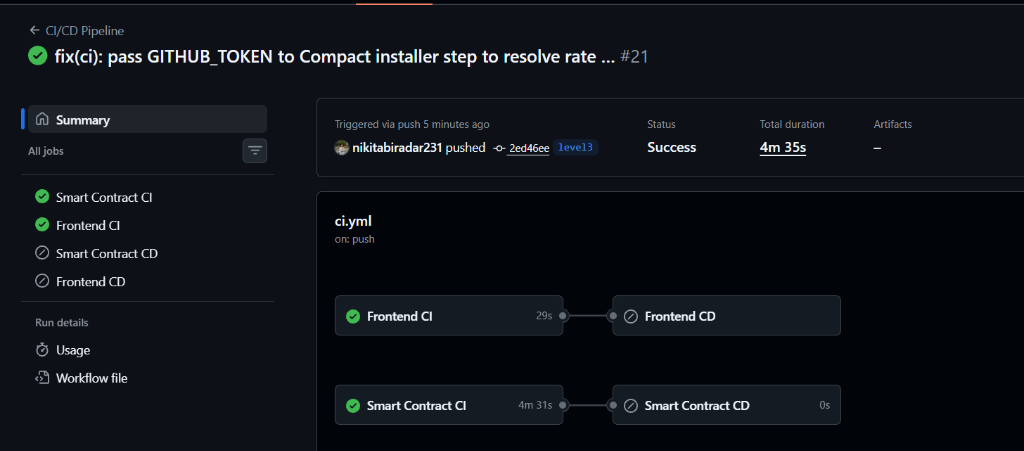
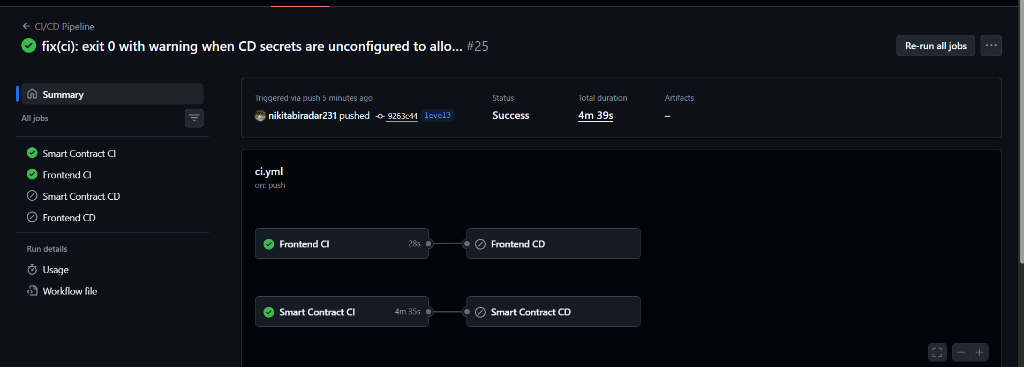
docs: update README with passing CI/CD pipeline screenshot (run #25)

diff --git a/README.md b/README.md
@@ -1,4 +1,4 @@
-[![CI Pipeline](https://github.com/nikitabiradar231/HandMadeHub_Dapp/actions/workflows/ci.yml/badge.svg?branch=level3)](https://github.com/nikitabiradar231/HandMadeHub_Dapp/actions/workflows/ci.yml)
+[![CI Pipeline](https://github.com/nikitabiradar231/HandMadeHub_Dapp/actions/workflows/ci.yml/badge.svg)](https://github.com/nikitabiradar231/HandMadeHub_Dapp/actions/workflows/ci.yml)
 
 # HandMadeHub 🎨
 
